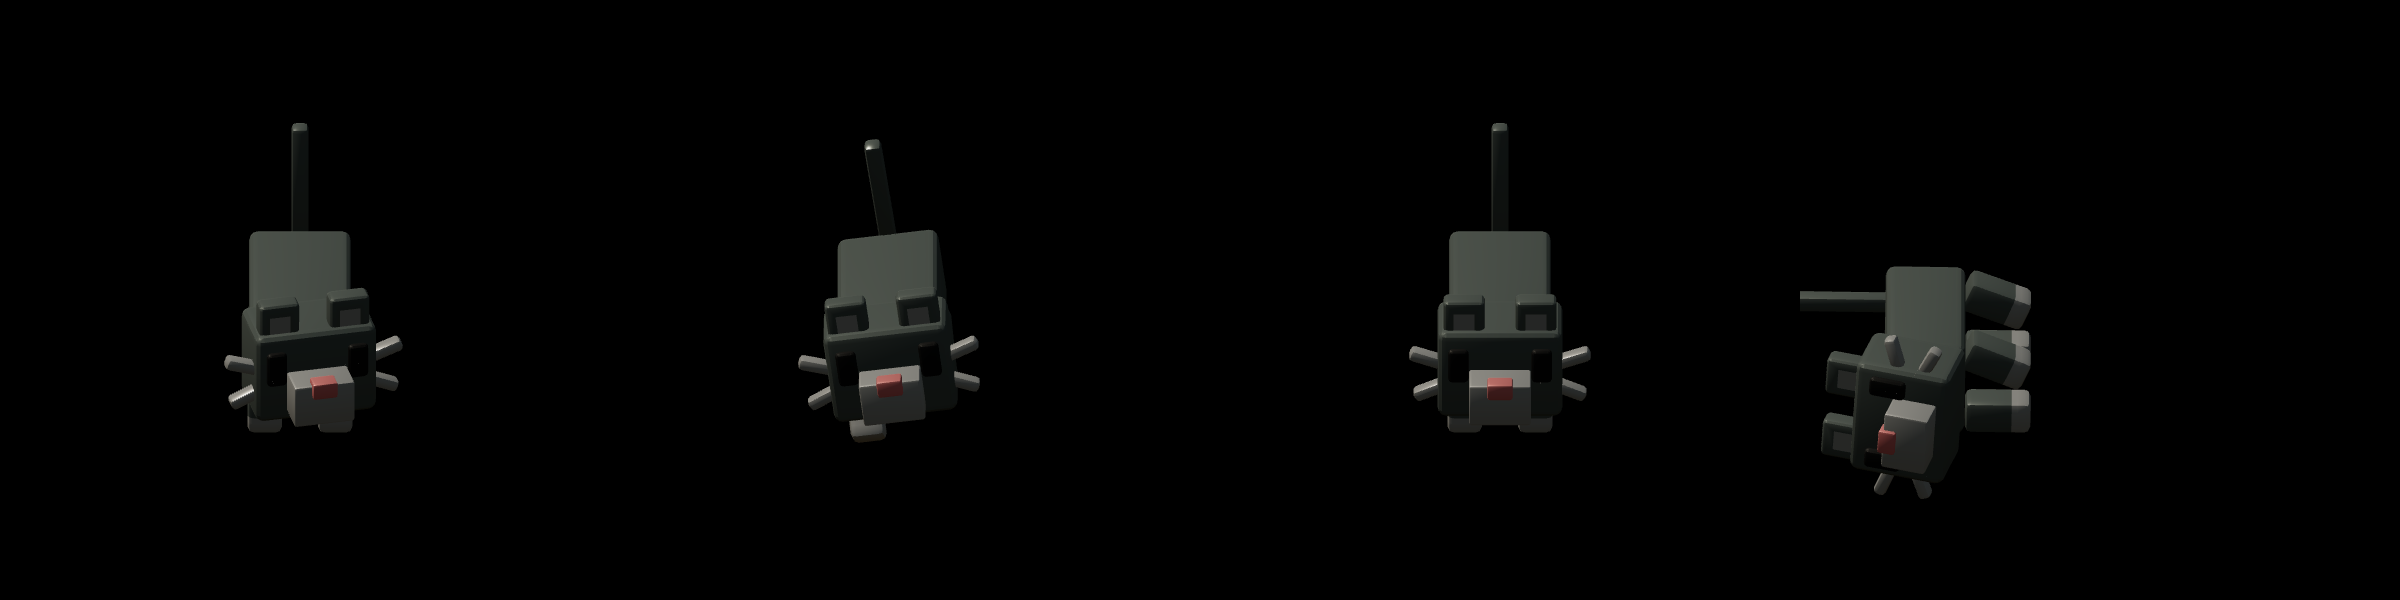
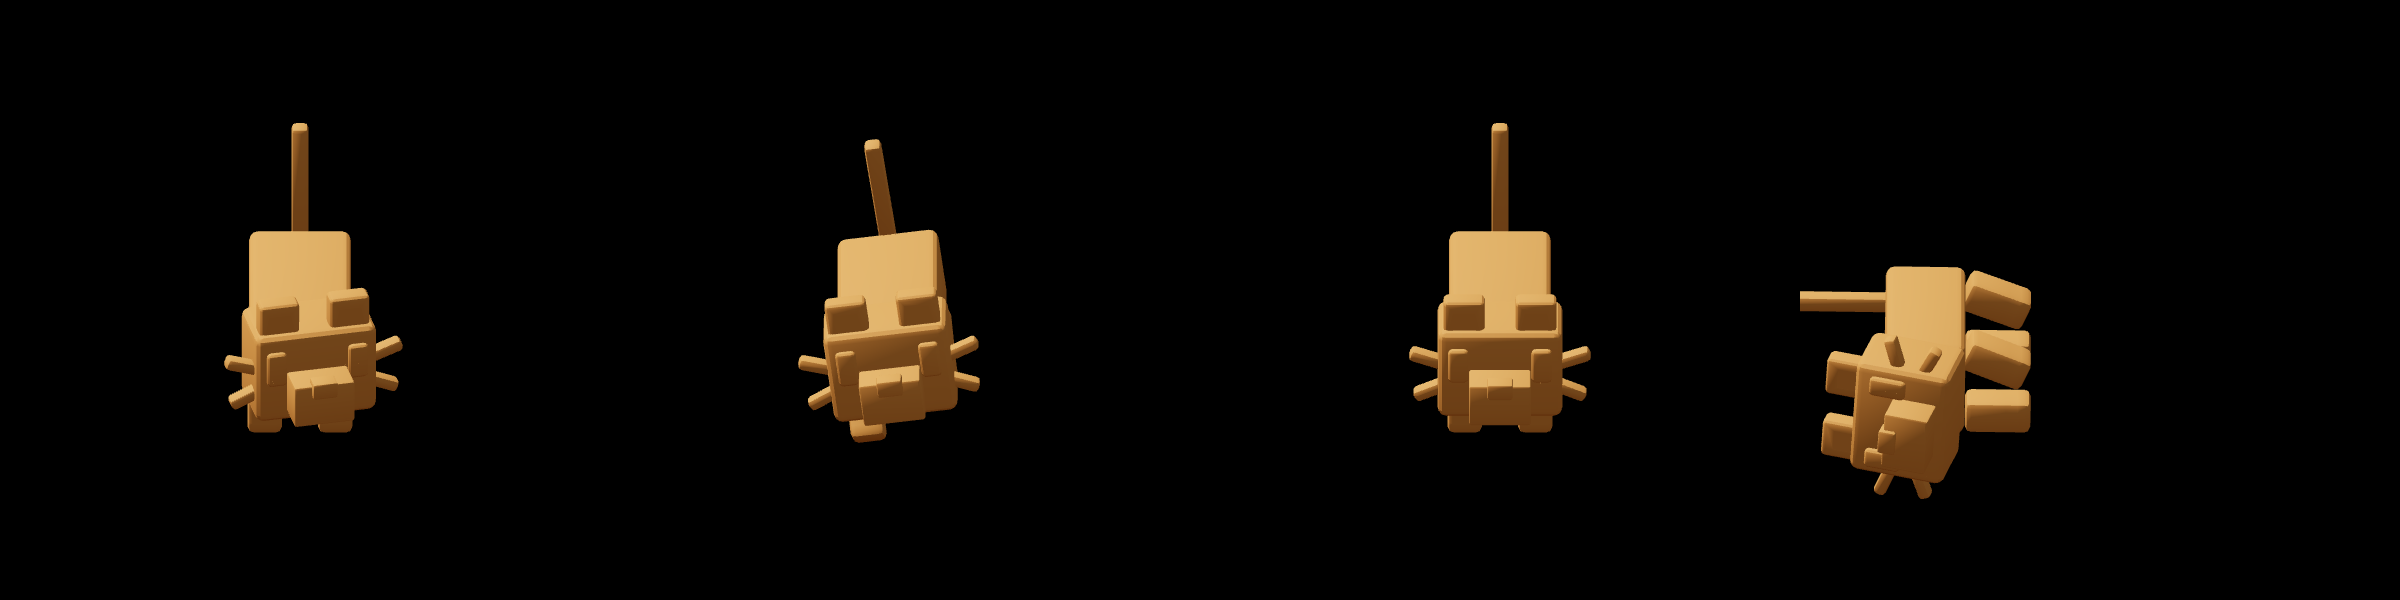
Knock Chain 1단계: 레벨 1 정지 화면 A·B + 4상태 시트, CREDITS, docs 페이지, 게시판·플레이북 기록
Claude-Session: https://claude.ai/code/session_01GVpU8ga3aoJ8m2wPw8jU9U

diff --git a/playables/knockchain/art/render-b.html b/playables/knockchain/art/render-b.html
@@ -90,7 +90,7 @@ const loader = new GLTFLoader(); loader.setMeshoptDecoder(MeshoptDecoder);
 const load = (f) => loader.loadAsync('./assets/' + f + '.glb');
 // the Quaternius cat ships metalness 0.4 + vertex colours; without an environment map that renders almost black.
 // Use its colour atlas with a matte material so it takes the same light as everything else.
-function fixCat(root) { root.traverse(o => { if (o.isMesh) { const m = o.material; m.metalness = 0; m.roughness = 0.75; m.vertexColors = false; m.color.set(0xffffff); m.needsUpdate = true; o.castShadow = true; o.frustumCulled = false; } }); }
+function fixCat(root) { root.traverse(o => { if (o.isMesh) { const m = o.material; m.metalness = 0; m.roughness = 0.7; m.vertexColors = false; m.map = null; m.color.set(0xf2a65a); /* its atlas is dark grey in the cat's region → drop it, flat orange like A (eyes/nose are geometry) */ m.needsUpdate = true; o.castShadow = true; o.receiveShadow = false; o.frustumCulled = false; } }); }
 
 async function buildScene() {
   // island: earth block + grass slab + tufts
@@ -151,7 +151,7 @@ async function buildScene() {
   // cat (Quaternius, CC0) sitting in the crate, head above the rim, looking toward the camera
   const cat = await load('cat');
   const ct = cat.scene; fixCat(ct);
-  ct.scale.setScalar(0.55); ct.position.set(cx + csz / 2, 0.38, cz + csz / 2 + 0.05); ct.rotation.y = Math.PI * 0.25;
+  ct.scale.setScalar(0.58); ct.position.set(cx + csz / 2, 0.5, cz + csz / 2 + 0.08); ct.rotation.y = Math.PI * 0.25;
   const cmix = new THREE.AnimationMixer(ct); const idle = cmix.clipAction(cat.animations.find(a => /\|Idle$/.test(a.name))); idle.play(); cmix.update(1.2);
   scene.add(ct);
   return { cat, cmix };

diff --git a/board/knock-chain.md b/board/knock-chain.md
@@ -1,14 +1,50 @@
 # Knock Chain (가칭, 조준+물리 연쇄) — 개발 세션 게시판
+마지막 갱신: 2026-11-01 20:30 (KST)
 
 ## 🔁 이어받기
-- 마지막 저장: 2026-11-01 (기획 파트너가 엶) · 작업 브랜치: 없음(개발 세션이 `claude/knockchain-art` 로)
-- 승인 범위: **1단계 = 레벨 1 정지 화면 1장(아트 기준 5개)** → 사용자 느낌. 그 이상은 하지 않음. 기획서 `plans/knock-chain.md`, 근거 `plans/playables-core-fun.md` 7장.
-- 다음 할 일: ① `playables/knockchain/art/` 에 렌더 스크립트 + 결과 PNG(1170×2532, 1170×1170) ② 만든 방법·재현 가능성·에셋 출처를 이 게시판에 ③ `docs/knockchain-art.html` 에 두 장을 올려 사용자가 폰으로 보게(main 푸시) ④ 통과/실패 기준과 질문 1개("진짜 게임 같아 보이나요?")만 사용자에게
-- 사용자 대기: 정지 화면 느낌
-- 이어받기 문장: `soulfulfillable/test-mvp 의 board/knock-chain.md 와 plans/knock-chain.md 를 읽고 "다음 할 일"부터 이어서 해줘. CLAUDE.md·DESIGN.md·PLAYBOOK.md 규칙대로. 1단계(정지 화면)까지만.`
+- 마지막 저장: 2026-11-01 20:30 KST · 작업 브랜치: `claude/knockchain-art` (main 반영됨)
+- 방금 끝낸 것: **1단계 = 레벨 1 정지 화면** 두 안(A·B) × 두 크기(1170×2532, 1170×1170) + 고양이 4상태 시트 2장. 폰에서 보기: https://soulfulfillable.github.io/test-mvp/knockchain-art.html
+  - **A 절차적 2.5D** (`playables/knockchain/art/render-a.html`, Canvas 2D): 광원 1개(-1, 2, 0.6)·면 3단 음영·모든 물체 같은 함수로 바닥 그림자(광선 투영→볼록껍질→같은 블러·농도, 데크 면에 클립)·접촉 AO·선 두께 1종·팔레트 1벌. 외부 에셋 0. 고양이·새총은 벡터.
+  - **B 3D** (`render-b.html`, three.js 0.170 + WebGL/SwiftShader): 직교 30° 등각 카메라, 방향광 1개 + 그림자 맵(PCF soft) + 반구광, 같은 좌표계·같은 광원 방향·같은 HUD. 블록·상자·새총은 프리미티브 + 캔버스로 그린 나무결 텍스처, 고양이만 CC0 모델(Quaternius, `art/assets/cat.glb`, npm `@netforge/asset-library-files` 경유 — 출처·검증은 `assets/NOTICE-netforge.txt`).
+  - HUD 공용 `ui.js`: 시스템 글꼴, 강조색 1개(#1f7a8c), SVG 아이콘(이모지 0), 44pt 버튼. 두 안이 같은 HUD 를 씀(기준 ③).
+  - C(Everygen 참고 이미지): **402 구독 없음** → 못 만듦. 외부 그림 사이트도 차단.
+  - 재현: `cd playables/knockchain/art && npm install && NODE_PATH=/opt/node-tools/node_modules node render.js` → `out/*.png`, 콘솔 에러 0 검사 포함. 2단계에서 그대로 쓸 수 있는 것 — A 는 그 코드가 곧 게임 렌더러(박스·원기둥·그림자 함수), B 는 three.js 씬이 곧 게임 씬(물리 결과를 mesh 위치에 넣으면 됨). 고양이 애니는 B 가 공짜(Idle/Walk/Jump/Death 클립 내장), A 는 상태별 그림을 손으로 그려야 함.
+- 진행 중이던 것: 없음
+- **다음 할 일**: ① 사용자 답("진짜 게임 같아 보이나요?" + A/B 중 어느 쪽) 기다림 ② 통과면 2단계 승인 요청 — 20초 코어 테스트(레벨 3개, 조준·발사·연쇄·개봉), 물리는 Planck.js 또는 Matter.js(MIT) 중 결정론(고정 타임스텝)으로, 로봇 = 각 레벨 클리어 가능·콘솔 0·크기 14종(Mole Mash `robot.js` 복사) ③ 실패면 아트 방침 재정의(예: B 로 가되 모델을 더 찾기 / 캐릭터만 2D 스프라이트 / 색·재질 톤 변경) ④ 2단계부터 효과음(CREDITS.md 의 목록, Kenney CC0 npm) 붙임
+- 사용자 대기: 정지 화면 느낌 (질문 1개: 진짜 게임 같아 보이나요? A·B 중 어느 쪽?)
+- 이어받기 문장: `soulfulfillable/test-mvp 의 board/knock-chain.md 와 plans/knock-chain.md 를 읽고 "다음 할 일"부터 이어서 해줘. CLAUDE.md·DESIGN.md·PLAYBOOK.md 규칙대로. 2단계는 사용자 승인 뒤에만.`
 
 ## 지금 상태
-기획만 있음. 코드 없음.
+1단계 산출물 완료(정지 화면 A·B, 스프라이트 시트, CREDITS, docs 페이지). 플레이 코드 없음. 사용자 느낌 대기.
+
+## 아트 기준 5개 대조 (1단계 자체 점검)
+| 기준 | A | B |
+|---|---|---|
+| ① 같은 팔레트·광원·선 두께 | 코드 상수 1벌(PAL, L, EDGE) | 조명 1개·재질 3종, 선 없음(음영) |
+| ② 바닥 그림자 동일 | `castShadow()` 하나로 전부 | 그림자 맵 1장 |
+| ③ UI 1세트 | 공용 `ui.js` | 공용 `ui.js` |
+| ④ 캐릭터 4상태 | 벡터 시트(유휴·이동·성공·실패) `cat-sheet-a.png` | 모델 클립 4개 1프레임씩 `cat-sheet-b.png` |
+| ⑤ 효과음 | 목록만(CREDITS.md 11개 동작) | 같음 |
+
+**솔직한 아쉬운 점** (숨기지 않음):
+- B 의 고양이는 Quaternius 저폴리 모델이라 **블록 모양(마인크래프트풍)** — 귀엽다기보다 각지다. 아틀라스 색이 어두워 단색 주황으로 바꿨다. A 의 벡터 고양이가 더 "캐릭터" 같다. 2단계로 가면 **B 씬 + 캐릭터는 다른 CC0 모델 또는 2D 스프라이트(빌보드)** 를 검토해야 한다.
+- A 는 "코드 드로잉"의 한계가 남아 있다: 돌 블록·새총이 단순. 다만 과거 "최악" 평가(앰비언트)와 달리 광원·그림자·AO 규칙이 있어 한 덩어리로 보인다.
+- B 의 유리는 투과(transmission) 없이 반투명만. SwiftShader 렌더 1장에 30~60초.
+- 두 안 모두 "와 포인트"(쓰러지는 연쇄의 슬로모)는 정지 화면이라 못 보여 줌 — 2단계 몫.
 
 ## 사용자 피드백 기록
 - 11-01 "(2) 아트 기준 한 화면부터 해봐" → 1단계 승인.
+
+## 사용자 성향 — 원하는 것 / 불편해하는 것
+- Cargo Sort(Playgama) 류 "진짜 게임 같은 그래픽": 입체 상자·일관된 그림자·UI. 코드로 그린 도형 나열은 "최악".
+- 한눈에 뭘 하는 게임인지 읽혀야 함 → 이 화면은 새총→궤적 점선→유리 블록 과녁→스위치→상자 속 고양이로 인과를 한 줄에 놓음.
+
+## 다른 세션에 알리는 노하우
+- **npm 에 CC0 3D/2D 에셋이 있다**: `@netforge/asset-library-files`(Quaternius·Kenney 저폴리 GLB 222종 + 픽셀 58종, NOTICE 에 출처·검증). GLB 는 meshopt 압축이라 three.js `GLTFLoader.setMeshoptDecoder(MeshoptDecoder)` 필수. Kenney `crate.glb` 는 SF 보라 상자(Space Kit)라 이름만 믿지 말 것.
+- Quaternius 동물 모델은 metalness 0.4 + 정점색이 들어 있어 환경맵 없는 씬에선 **거의 검게** 나온다 → `metalness=0, vertexColors=false`, 필요하면 `map=null` + 단색.
+- 헤드리스 WebGL2: `--use-angle=swiftshader --enable-unsafe-swiftshader --allow-file-access-from-files`(PLAYBOOK 앰비언트 항목과 같음). importmap 으로 `./node_modules/three/...` 를 file:// 에서 바로 불러도 된다.
+- three.js 로 HUD 를 겹칠 땐 renderer 캔버스를 `body.prepend` (append 하면 HUD 위를 덮는다).
+- Everygen 은 이미지도 402(구독 없음). 참고 이미지는 포기하고 바로 만드는 게 빠르다.
+
+## 다른 세션·기획 파트너에게 묻고 싶은 것
+- 2단계 물리 엔진: Planck.js(Box2D 포팅, 결정론 좋음) vs Matter.js(쉬움, 결정론 약함). 추천은 Planck.js.

diff --git a/PLAYBOOK.md b/PLAYBOOK.md
@@ -68,6 +68,7 @@
 
 | 날짜 | 앱 | 무슨 일이 있었나 | 다음엔 이렇게 |
 |---|---|---|---|
+| 2026-11-01 | Knock Chain | "진짜 게임 같은" 정지 화면 1장을 두 방식으로: ①Canvas 2.5D 는 광원·면 음영·투영 그림자·접촉 AO·선 두께를 **함수 하나씩으로 고정**하니 코드 드로잉이어도 한 덩어리로 보임 ②three.js 는 npm `@netforge/asset-library-files` 의 CC0 GLB(meshopt → `setMeshoptDecoder` 필수)와 프리미티브로 조명·그림자가 자동 일관. 함정: Kenney `crate.glb` 는 SF 보라 상자, Quaternius 동물은 metalness 0.4+정점색이라 환경맵 없으면 검게 나옴, renderer 캔버스를 append 하면 HUD 를 덮음, Everygen 이미지도 402 | 아트 기준 화면은 **A/B 두 안을 같은 좌표·같은 광원·같은 HUD 로** 만들어 1:1 비교. 3D 모델은 이름 말고 렌더로 확인, 재질은 `metalness=0, vertexColors=false` 로 리셋. 렌더 스크립트는 `playables/knockchain/art/render.js`(콘솔 0 검사 포함) |
 | 2026-11-01 | Playables | 샌드박스 첫 사용자 플레이: "Play again 눌렀는데 광고가 나와 속은 느낌" — 전면 광고를 Play again 버튼에 걸어 둔 탓. 또 설명 카드 5줄은 "글씨 많아 지겹다", 스컹크는 "왜 안 되는지 모르겠다" | 전면 광고는 **버튼이 아니라 라운드가 끝나는 순간**에(세션 첫 판 뒤엔 안 부름), 보상형 버튼엔 보상을 문구로. 설명은 글 대신 첫 판의 링/라벨로. 피해야 할 것은 "만지면 안 되는 모양"(폭탄·심지·빨간 링)으로 — 캐릭터 변형(스컹크)은 안 읽힌다 |
 | 2026-11-01 | Playables | **Playgama 첫 업로드**: ①Bridge SDK 는 CDN 이 이 환경에서 막혀 있어 npm `@playgama/bridge` 의 `dist/playgama-bridge.js` 를 아카이브에 동봉(문서가 허용하는 self-contained 방식) → 빌드 체크 `bridgeSdk FOUND 2.4.0` 통과, 헤드리스에서도 mock 플랫폼으로 storage·이벤트가 실제로 돈다 ②Everygen 은 구독이 없어 음원 생성 불가(402) — npm 에 CC0 음원이 든 패키지가 있다(`@netforge/asset-library-files` Kenney 효과음+cynicmusic 곡, `uisfx` UI 효과음) ③Safari 는 Web Audio 로 ogg(Vorbis)를 못 풀어 효과음·BGM 을 ogg+mp3 두 벌 넣고 `canPlayType` 으로 고름 ④로봇의 `bridge.platform` 접근을 initialize 전에 했더니 SDK 가 console.error 를 찍어 "콘솔 에러 0" 검사가 깨짐 ⑤플랫폼 일시정지(탭 숨김) 뒤 자동 재개하면 45초 반응 게임에선 바로 죽는다 | SDK 는 npm pack → 로컬 동봉(매 업로드 전 `npm pack` 으로 갱신). 음원은 먼저 npm 검색(`npm search cc0 sound`), 라이선스·출처를 `CREDITS.md` 에. 오디오는 ogg+mp3 두 벌. 플랫폼 메시지 검증은 게임 쪽 `DEBUG` 훅으로(SDK 를 감싸지 말 것). 숨김/플랫폼 일시정지는 일시정지 패널을 띄워 사용자가 Resume 을 누르게. 전체 틀은 `playables/molemash/index.html`·`robot.js`(14개 크기 매트릭스, 세션 검사) — 다음 게임은 복사해서 시작 |
 | 2026-11-01 | Playables | 세로 전용으로 만든 게임을 1:1·가로에 맞추기: HUD 를 세로=위 띠 / 가로=왼쪽 기둥 / 정사각=위 2줄 세 모드로 나누고, 판 크기는 `min(폭/3.4, (높이-33)/3.35)` 로 잡으니 14개 크기 전부 겹침 0. 커버 3종(800², 1080×1920, 1920×1080)은 게임 자체를 `#cover` 모드로 그 크기에서 스크린샷 — 레이아웃 증명과 커버를 한 번에 | 새 게임도 처음부터 `layout()` 에 세 모드. 커버는 따로 그리지 말고 게임 화면으로 |

diff --git a/playables/knockchain/CREDITS.md b/playables/knockchain/CREDITS.md
@@ -14,9 +14,8 @@ vector drawings in the same file. Reproducible: open the file, screenshot.
 
 | What | Source | License | Note |
 |---|---|---|---|
-| `art/assets/cat.glb` (animated cat, 8 clips: Idle, Walk, Run, Jump, Headbutt, Death…) | Quaternius — https://quaternius.com (via Poly Pizza, model listed Public Domain) | CC0 1.0 | obtained through the npm package `@netforge/asset-library-files@0.2.0` (`library/lowpoly/cat.glb`, meshopt-compressed copy); provenance in `art/assets/NOTICE-netforge.txt` |
-| `art/assets/crate.glb` | Kenney — https://kenney.nl (Space Kit) | CC0 1.0 | **tried and dropped** (it is a purple sci-fi crate — wrong material for a wooden level). Kept in the folder for the record; not shown |
-| `art/assets/chest.glb` | Quaternius | CC0 1.0 | downloaded as a fallback box, not used |
+| `art/assets/cat.glb` (animated cat, 8 clips: Idle, Walk, Run, Jump, Headbutt, Death…) | Quaternius — https://quaternius.com (via Poly Pizza, model listed Public Domain) | CC0 1.0 | obtained through the npm package `@netforge/asset-library-files@0.2.0` (`library/lowpoly/cat.glb`, meshopt-compressed copy); provenance in `art/assets/NOTICE-netforge.txt`. Its colour atlas is dark grey in the cat's UV region, so B renders it with a flat orange material (eyes, nose, whiskers are geometry) |
+| Kenney `crate.glb` (Space Kit) | Kenney — https://kenney.nl | CC0 1.0 | **tried and dropped** — it is a purple sci-fi crate, wrong material for a wooden level. File removed; the crate is now wood primitives |
 | everything else in B (island, deck planks, rails, wood/glass/stone blocks, crate, switch, slingshot, ball, dots) | three.js primitives + a procedural wood texture drawn on a canvas | ours | three.js itself is MIT (npm `three@0.170.0`) |
 
 CC0 legal text: `art/assets/CC0-1.0.txt`. The package that redistributes the packs is MIT (`NOTICE-netforge.txt`
@@ -24,8 +23,8 @@ lists each pack and where its license was verified).
 
 ## Variant C — generated "target look" reference
 
-Not produced. Everygen image generation was tried for a single reference picture only; see `board/knock-chain.md`
-for the result. A generated image is never shipped in the game (unclear rights, not reproducible frame to frame).
+Not produced: Everygen answered **402 No active subscription** (2026-11-01), same as for Mole Mash audio. No other image
+site is reachable from this environment. A generated image is never shipped in the game (unclear rights, not reproducible frame to frame).
 
 ## Sound effects (criterion 5 — list only in stage 1; files come in stage 2)
 

diff --git a/plans/knock-chain.md b/plans/knock-chain.md
@@ -32,3 +32,4 @@ C. Everygen 이미지 생성은 **"목표 룩" 참고 1장**으로만 — 게임
 
 ## 진행 기록
 - 2026-11-01 기획 파트너 작성. 1단계 승인.
+- 2026-11-01 개발 세션: **1단계 완료** — A(Canvas 2.5D 규칙 렌더)·B(three.js + CC0 고양이 모델) 정지 화면 각 2장 + 4상태 시트 + `playables/knockchain/CREDITS.md`. 페이지 https://soulfulfillable.github.io/test-mvp/knockchain-art.html . C(Everygen 참고 이미지)는 402 구독 없음으로 불가. 사용자 느낌 대기. 자세한 건 `board/knock-chain.md`.
